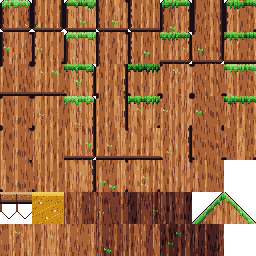
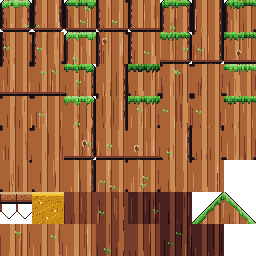
Pass 555: calm frame tiles (#624)
* Pass 555: calm frame tiles

The Tower's plates and Vorrhallow's blocks share one body value with about
one worn block in seven, where a coin toss between two values made a
checkerboard. Vorrhallow's tide stain marks some interior tiles and no edge
tile. The High Boughs' wood uses the Heartwood's calm strands two steps up
the bark ramp. TilesetFactory.scatter mixes the cell hash so a variant no
longer repeats every fourth cell along a row. Design bible 12.45.

* Pass 555: record the suite total

---------

diff --git a/tools/art/tilegen.py b/tools/art/tilegen.py
@@ -232,17 +232,36 @@ def paint_shrine(img, ox, oy, seed, ramp):
                 x += 1 if hash2(seed, step, 34 + k) > 0.6 else (-1 if hash2(seed, step, 35 + k) > 0.7 else 0)
 
 
+# One body value, the odd worn block (design bible 12.45, pass 555). The Tower's
+# plates and Vorrhallow's blocks used to take one of two values on a coin toss,
+# so a field read as a checkerboard a whole shade deep, loudest in the darkened
+# interior tiers (independent grade, passes 540 and 550: "frame tiles repeat on a
+# loud grid, Tower and Vorrhallow checkered stone"). Most blocks now share the
+# body value and about one in seven is worn a shade darker.
+WORN_BLOCK = 0.86
+# The share of Vorrhallow's tiles that carry the teal tide stain. Drawn in every
+# tile it ruled a stripe across the field every 16 world pixels.
+TIDE_TILES = 0.35
+# build_tileset paints the 47 blob tiles with seeds 11 to 57 and the interior
+# tiles (MID, DEEP and the row-7 variants) with seeds from 101. Only those carry
+# the tide stain: an edge tile has no variants, so a stain on one repeats down
+# every wall face and pillar.
+INTERIOR_SEED = 101
+
+
 def paint_drowned(img, ox, oy, seed, ramp):
     """Vorrhallow's drowned masonry: squat dwarven blocks, dark and water-worn,
-    a teal tide line where the flood stood, and veins of magenta stillglass
-    forcing their way through the joints of some blocks."""
+    a teal tide stain on some where the flood stood, and veins of magenta
+    stillglass forcing their way through the joints of some blocks. The blocks
+    share one body value; the odd one is worn a shade darker (WORN_BLOCK)."""
     bw, bh = 16 * D, 8 * D
+    tide = seed >= INTERIOR_SEED and hash2(seed, 7, 31) < TIDE_TILES
     for y in range(T):
         row = y // bh
         for x in range(T):
             sx = x + (row % 2) * (bw // 2)
             bx, ly, lx = sx // bw, y % bh, sx % bw
-            shade = 3 if hash2(bx, row, seed) > 0.45 else 2
+            shade = 2 if hash2(bx, row, seed) > WORN_BLOCK else 3
             if ly == bh - 1 or lx == 0:
                 col = "night-1"
             elif ly == 0 or lx == 1:
@@ -253,8 +272,10 @@ def paint_drowned(img, ox, oy, seed, ramp):
                 col = f"{ramp}-{shade}"
                 if hash2(x // 2, y // 2, seed + 5) > 0.88:
                     col = f"{ramp}-{shade - 1}"
-            # The tide line: a band of teal stain across the tile.
-            if 11 * D <= y < 12 * D and hash2(x // 3, 0, seed + 9) > 0.2:
+            # The tide line: a band of teal stain across some tiles (TIDE_TILES).
+            if not tide:
+                pass
+            elif 11 * D <= y < 12 * D and hash2(x // 3, 0, seed + 9) > 0.2:
                 col = "sky-2"
             elif 12 * D <= y < 13 * D and hash2(x // 2, 1, seed + 9) > 0.6:
                 col = "sky-1"
@@ -401,7 +422,7 @@ def crystal_vein(img, ox, oy, seed):
 WOOD_STRANDS = 5
 
 
-def paint_wood(img, ox, oy, seed, ramp):
+def paint_wood(img, ox, oy, seed, ramp, lo=1):
     """Living wood: broad vertical strands of two values, long grain lines running
     down them, a long highlight here and there, and the odd knot.
 
@@ -414,7 +435,8 @@ def paint_wood(img, ox, oy, seed, ramp):
     # Strands: walk across the tile in runs of 4..9 columns, alternating value.
     # The layout is the same in every tile (WOOD_STRANDS, not ``seed``), so a
     # strand runs on unbroken from one tile to the one below it; the seed varies
-    # only the grain lines, highlights and knots laid over it.
+    # only the grain lines, highlights and knots laid over it. ``lo`` is the
+    # darker strand's step on the ramp (the High Boughs' sunlit wood sits at 3).
     strand = []
     k = 0
     while len(strand) < T:
@@ -423,12 +445,12 @@ def paint_wood(img, ox, oy, seed, ramp):
         k += 1
     for x in range(T):
         val, start = strand[x]
-        base = 2 if val else 1
+        base = lo + 1 if val else lo
         edge = x == start and x > 0              # a dark seam between strands
         for y in range(T):
             col = base
             if edge:
-                col = 0 if base == 1 else 1
+                col = base - 1
             img.putpixel((ox + x, oy + y), c(f"{ramp}-{col}"))
     # Long grain lines a shade darker, and the odd long highlight a shade lighter.
     for i in range(6):
@@ -438,8 +460,8 @@ def paint_wood(img, ox, oy, seed, ramp):
         lift = hash2(seed, i, 22) > 0.6
         for y in range(y0, min(T, y0 + length)):
             nm = img.getpixel((ox + gx, oy + y))
-            here = 2 if nm[:3] == c(f"{ramp}-2")[:3] else 1
-            col = min(here + 1, 3) if lift else max(here - 1, 0)
+            here = lo + 1 if nm[:3] == c(f"{ramp}-{lo + 1}")[:3] else lo
+            col = min(here + 1, lo + 2) if lift else max(here - 1, lo - 1)
             img.putpixel((ox + gx, oy + y), c(f"{ramp}-{col}"))
     if hash2(seed, 7, 3) > 0.92:  # rare: the few interior tiles repeat a lot
         # A knot: a dark eye in a lighter ring of grain.
@@ -448,7 +470,7 @@ def paint_wood(img, ox, oy, seed, ramp):
             for dx in range(-2, 3):
                 r = (dx / 2.5) ** 2 + (dy / 3.5) ** 2
                 if r <= 1.0:
-                    col = f"{ramp}-0" if r < 0.35 else (f"{ramp}-3" if dx < 0 or dy < 0 else f"{ramp}-1")
+                    col = f"{ramp}-{lo - 1}" if r < 0.35 else (f"{ramp}-{lo + 2}" if dx < 0 or dy < 0 else f"{ramp}-{lo}")
                     img.putpixel((ox + kx + dx, oy + ky + dy), c(col))
 
 
@@ -472,23 +494,13 @@ def paint_limb(img, ox, oy, seed, ramp):
 
 
 def paint_bough(img, ox, oy, seed, ramp):
-    """A sunlit bough high in the canopy: The Heartwood's grain two shades lighter,
-    warm light streaking down the bark, and the odd sprig of young leaves."""
-    for x in range(T):
-        base = 3 if hash2(x // 3, 0, seed) > 0.4 else 4
-        phase = hash2(x, 1, seed) * 32
-        for y in range(T):
-            n = math.sin((y + phase) * 0.2)
-            col = base
-            if n > 0.9 and base == 4 and x % 3 == 1:
-                col = 5
-            elif n < -0.85:
-                col = base - 1
-            if x % 12 == 0:
-                col = min(col, 3)
-            elif x % 12 == 1 and hash2(x, y // 4, seed) > 0.5:
-                col = min(col + 1, 5)
-            img.putpixel((ox + x, oy + y), c(f"{ramp}-{col}"))
+    """A sunlit bough high in the canopy: The Heartwood's strands two shades
+    lighter, and the odd sprig of young leaves.
+
+    It shares paint_wood's calm strands (design bible 12.28 and 12.45). The older
+    face drew a sine grain down every column and a dark line every 6 world
+    pixels, and read as "striped dirt" (independent grade, pass 550)."""
+    paint_wood(img, ox, oy, seed, ramp, lo=3)
     for k in range(2):
         if hash2(seed, k, 21) > 0.6:
             # A sprig: a short stem and two bright leaves.
@@ -565,13 +577,15 @@ def cap_stone(img, ox, oy, seed, x0, x1, ramp="stone"):
 
 def paint_plates(img, ox, oy, seed, ramp):
     """Dwarven iron: square plates of 8x8 world pixels, bevelled and lit from the
-    top left, a rivet at each corner, and rust bleeding down from the odd rivet."""
+    top left, a rivet at each corner, and rust bleeding down from the odd rivet.
+    The plates share one body value; the odd one is worn a shade darker
+    (WORN_BLOCK, design bible 12.45)."""
     pw = 8 * D
     for y in range(T):
         for x in range(T):
             px, py = x // pw, y // pw
             lx, ly = x % pw, y % pw
-            shade = 3 if hash2(px + ox // T * 2, py + oy // T * 2, seed) > 0.5 else 2
+            shade = 2 if hash2(px + ox // T * 2, py + oy // T * 2, seed) > WORN_BLOCK else 3
             if lx == 0 or ly == 0:
                 col = f"{ramp}-1"
             elif lx == 1 or ly == 1:

diff --git a/tools/art/test_tilegen.py b/tools/art/test_tilegen.py
@@ -963,7 +963,7 @@ def test_graded_play_fill_is_calm():
     # scattered variants, fewer than 23% of neighbouring pixel pairs change colour
     # (the old painters ran 26% to 33%) and almost no pixel stands alone. (Restoring
     # the old wood grain, strata or small cells fails the share.)
-    for zone in ("haar", "heartwood", "sunken", "evercrown"):
+    for zone in ("haar", "heartwood", "sunken", "evercrown", "boughs"):  # boughs: pass 555
         seeds = (11 + tg.blob_masks().index(255), 201, 202, 203)
         edge = sum(_fill_busyness(zone, s)[0] for s in seeds) / len(seeds)
         iso = sum(_fill_busyness(zone, s)[1] for s in seeds) / len(seeds)

diff --git a/docs/loop/pass-555.md b/docs/loop/pass-555.md
@@ -1,0 +1,90 @@
+# Pass 555: calm frame tiles
+
+## Category
+
+Art cohesion, from the independent grade taken after pass 550 (5.3/10): "frame tiles repeat on a
+loud grid (Tower and Vorrhallow checkered stone, Heartwood/Boughs striped dirt) and overpower the
+playfield". The pass 540 grade said the same of the Tower and Vorrhallow brick. Pass 554's "Next"
+named it.
+
+No note from Sean was new. The queue's first item (lighting and depth) is down to pieces parked for
+a watched session, so the pass took the top open art defect instead. The PixelLab art loop stays
+**gated** on him: three guardian bases (Haar Wyrm, Thane Vorrund, Drowned Warden) wait for his OK,
+the limit of three. No PixelLab generations were spent, and no Autosprite credits. The hosted
+workbench is still down (its Vercel Blob store is suspended); it stays under "stuck" for Sean.
+README's playtest link already points at sagedragoon79/Yldenfall.
+
+## Audit
+
+- Shot `tower/foot` and `vorrhallow/gate_hall`. The floor and ceiling fields read as a
+  checkerboard, loudest two and three tiles in.
+- Measured the mean brightness of each 16 px block of the twelve interior tiles of each atlas. In
+  both zones about half the blocks sat a whole ramp step (about 23 of 255) under the other half:
+  `paint_plates` and `paint_drowned` each chose a block's value with a coin toss.
+- Vorrhallow's teal tide line crossed every tile at the same height, edge tiles included, so it
+  ruled dashes down every pillar.
+- `paint_bough` (the High Boughs) drew a sine grain down every column and a dark line every 6 world
+  pixels. The Heartwood's `paint_wood` has been calm since pass 534 and needed nothing.
+- With the checker gone, the worn blocks that remained fell on a fixed beat: `TilesetFactory.ground`
+  took `hash % 4` of a hash whose low bits follow the cell's own, so every fourth cell along a row
+  drew the same tile.
+
+## What was built
+
+- **`tools/art/tilegen.py`**: plates and blocks share one body value and about one in seven is worn
+  a step darker (`WORN_BLOCK`); the tide stain marks about a third of the interior tiles and no
+  edge tile (`TIDE_TILES`, `INTERIOR_SEED`); `paint_bough` calls `paint_wood` two steps up the bark
+  ramp (a new `lo` argument) and keeps its sprigs.
+- **`TilesetFactory.scatter`**: a mixed hash of the cell for choosing a variant. Every zone's solid
+  fields are rescattered; the tiles are the same.
+- `assets/tiles/tower.png`, `vorrhallow.png` and `boughs.png` regenerated. The script also rewrote
+  five `assets/bg/*_mid.png` files with no change in the painters behind them (they differ from
+  run to run); those were put back.
+- Design bible 12.45 (new).
+
+## Judged by eye
+
+Looked at `tower/foot`, `vorrhallow/gate_hall` and `boughs/thicket_road` at 1x before and after,
+and at crops of the fields. The Tower floor reads as riveted plate with the odd dark plate, and the
+Vorrhallow ceiling as coursed block with the odd worn block; neither pulls the eye from the room.
+The Boughs wood reads as broad sunlit strands. Two retakes: the first version left the worn blocks
+on a four-cell beat (hence `scatter`), and the tide stain still dashed down each pillar (hence no
+edge tiles).
+
+Not done: the interior tiers still step in whole tiles, which shows as square contours inside a
+thick Boughs trunk; the Tower's plate bevel is still a 16 px grid by design (it is riveted iron).
+
+## Tests
+
+`tests/test_calm_frame_tiles.gd`, five tests: under a quarter of each zone's interior blocks are
+worn, at least two are, and none stands brighter than the body; the tide stain is on at most half
+the interior tiles and on no wall face; the bough fill changes colour between under 23% of
+neighbouring pixels and under 6% down a column; cells one to eight apart along a row or down a
+column match about as often as chance; each depth still draws its four tiles about equally.
+`tools/art/test_tilegen.py` adds the Boughs to its calm-fill guard.
+
+Mutation check: `WORN_BLOCK` back at 0.5 fails 17 checks; the tide stain on every tile fails 3;
+the old `boughs.png` fails both bough checks; the old hash fails 26.
+
+## Rubric (design bible 15.3)
+
+| Category | Weight | Score | Notes |
+| --- | --- | --- | --- |
+| Movement feel | 20 | 99 | Unchanged. |
+| Combat and enemies | 15 | 99 | Unchanged. |
+| World and level design | 15 | 99 | Unchanged; one-template rooms, the empty mid-ground and the Proving Scar's framing remain. |
+| Art cohesion | 15 | 98 | The frame tiles of three zones are quiet. The HD hero and the guardian bases (gated art loop) remain. |
+| Bosses | 10 | 99 | Unchanged. |
+| Systems | 10 | 99 | Unchanged. |
+| Audio | 5 | 99 | Unchanged. |
+| Stability and performance | 5 | 99 | Unchanged. |
+| Story and world | 5 | 99 | Unchanged. |
+
+Weighted: 98.85. Full suite: 15,032 checks passed, 0 failed.
+
+## Next
+
+Pass 556: the art loop stays **gated** on Sean. From the independent grade taken after this pass,
+its top defect that needs no watched session. Otherwise, still open from the pass 550 grade: the
+Proving Scar's framing. From the pass 545 grade: the uniform rain over the Spires. The item icons
+on the Equipment and Inventory pages are a follow-on to pass 554.

diff --git a/docs/design-bible.md b/docs/design-bible.md
@@ -2120,6 +2120,17 @@ The pass 550 grade called the shop "a plain box with no item icons or portrait" 
 
 `UiArt` loads both sheets (`assets/ui/item_icons`, `assets/ui/portraits`). `test_the_shop_shows_what_it_sells` checks that every item has a shaded icon of its own, that look-alikes differ, that every shop has a keeper with a portrait, that every shelf row names its item's icon, and the menu's layout with and without them.
 
+### 12.45 Calm frame tiles: one body value, the odd worn block (pass 555)
+
+The pass 550 grade (and the pass 540 one before it) said the frame tiles "repeat on a loud grid (Tower and Vorrhallow checkered stone, Heartwood/Boughs striped dirt) and overpower the playfield". The solid fields that frame a room are the largest surfaces on screen, so they must be the quietest.
+
+- **One body value.** `paint_plates` (the Tower) and `paint_drowned` (Vorrhallow) used to give each plate or block one of two values on a coin toss. Two values a whole ramp step apart, half and half, are a checkerboard, and the darker interior tiers (12.8) made it louder. Most blocks now share the body value, and about one in seven is worn a step darker (`WORN_BLOCK`). No block stands brighter than the body. This is the rule for any new masonry painter: variation is the exception, not half the field.
+- **The tide stain marks some tiles.** Vorrhallow's teal tide line crossed every tile at the same height and ruled a stripe through a field every 16 world pixels. It now marks about a third of the interior tiles (`TIDE_TILES`) and no edge tile: an edge tile has no variants, so a stain on one repeats down every wall face and pillar.
+- **The High Boughs' wood is the Heartwood's strands.** `paint_bough` drew a sine grain down every column and a dark line every 6 world pixels, the "striped dirt". It now calls `paint_wood` (12.28) two steps up the bark ramp: broad strands, long grain lines, and its sprigs of young leaves. The Heartwood's own tiles are unchanged; they have been calm since pass 534.
+- **The scatter has no beat.** `TilesetFactory.ground` chose a variant from `hash % 4`, and that hash's low bits followed the cell's own, so every fourth cell along a row drew the same tile. With most blocks one value, a worn block then marched across a floor at a fixed step. `TilesetFactory.scatter` mixes the hash first. Every zone's fields are rescattered by this; the tiles themselves are the same.
+
+Only `assets/tiles/tower.png`, `vorrhallow.png` and `boughs.png` are regenerated. Collision, edges, caps and outlines are untouched. `tests/test_calm_frame_tiles.gd` holds all four: under a quarter of the Tower's and Vorrhallow's interior blocks are worn and at least two are, the tide stain is on at most half the interior tiles and on no wall face, the bough fill changes colour between under 23% of neighbouring pixels and hardly at all down a column, and cells one to eight apart along a row or down a column match about as often as chance.
+
 ## 13. Asset Production Plan
 
 ### 13.1 Tools and when to use each
